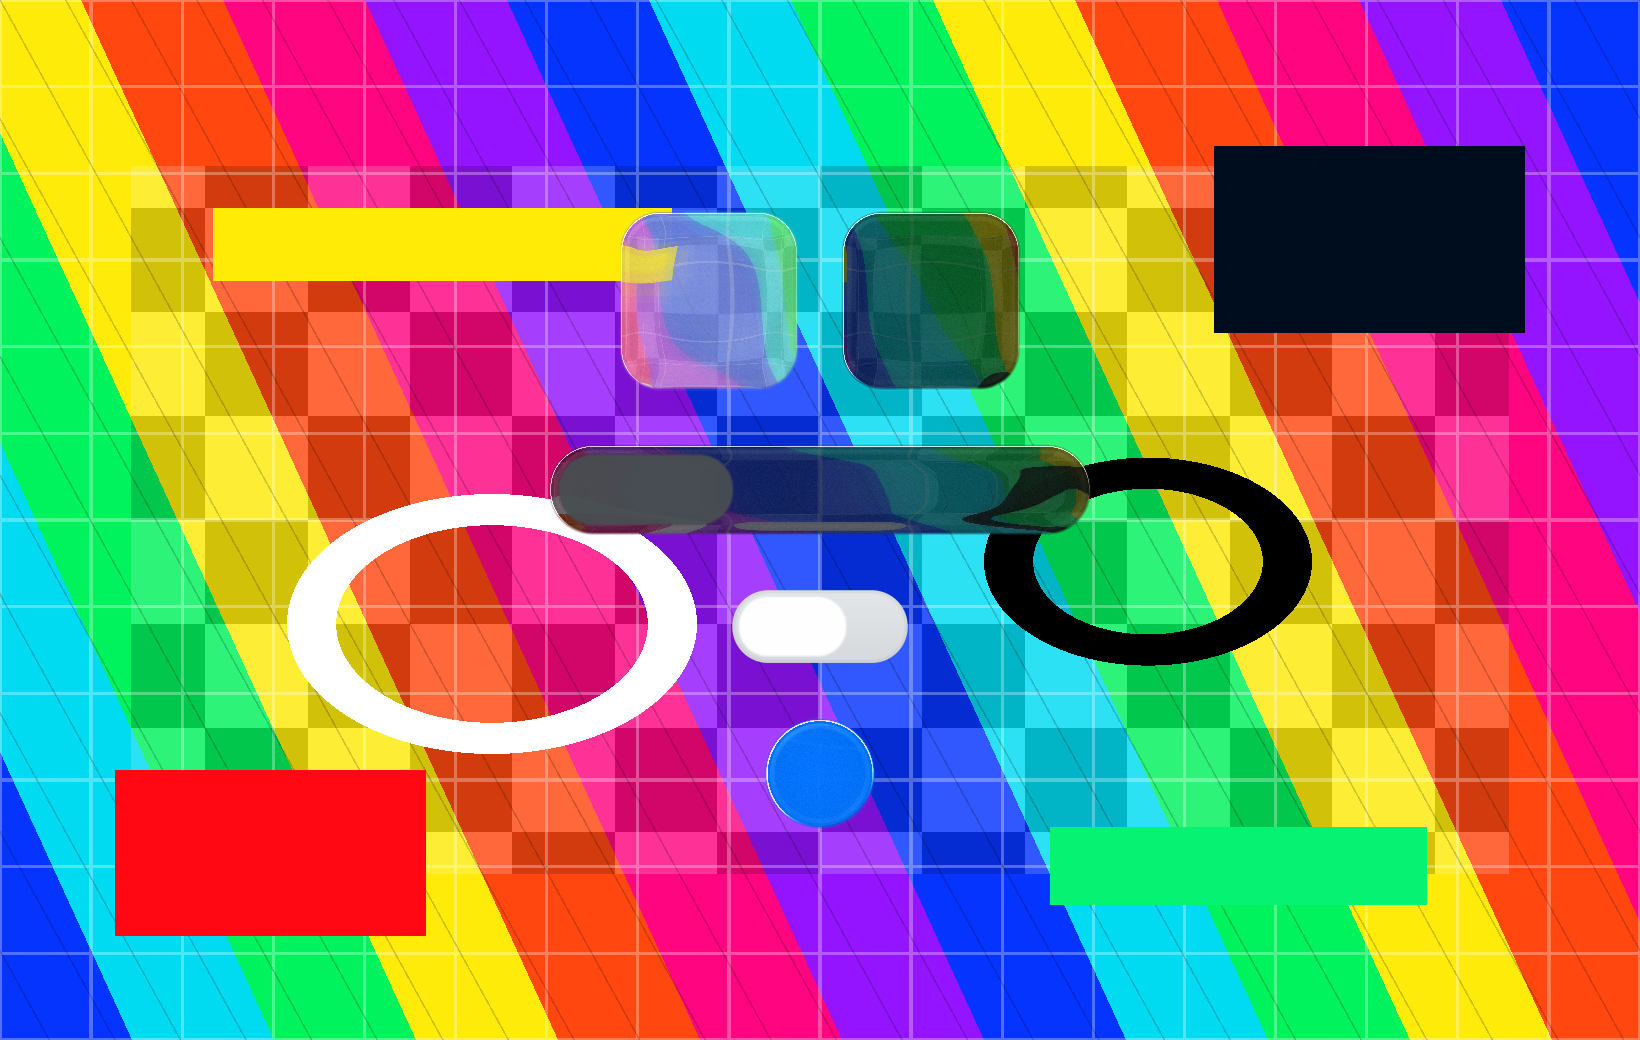
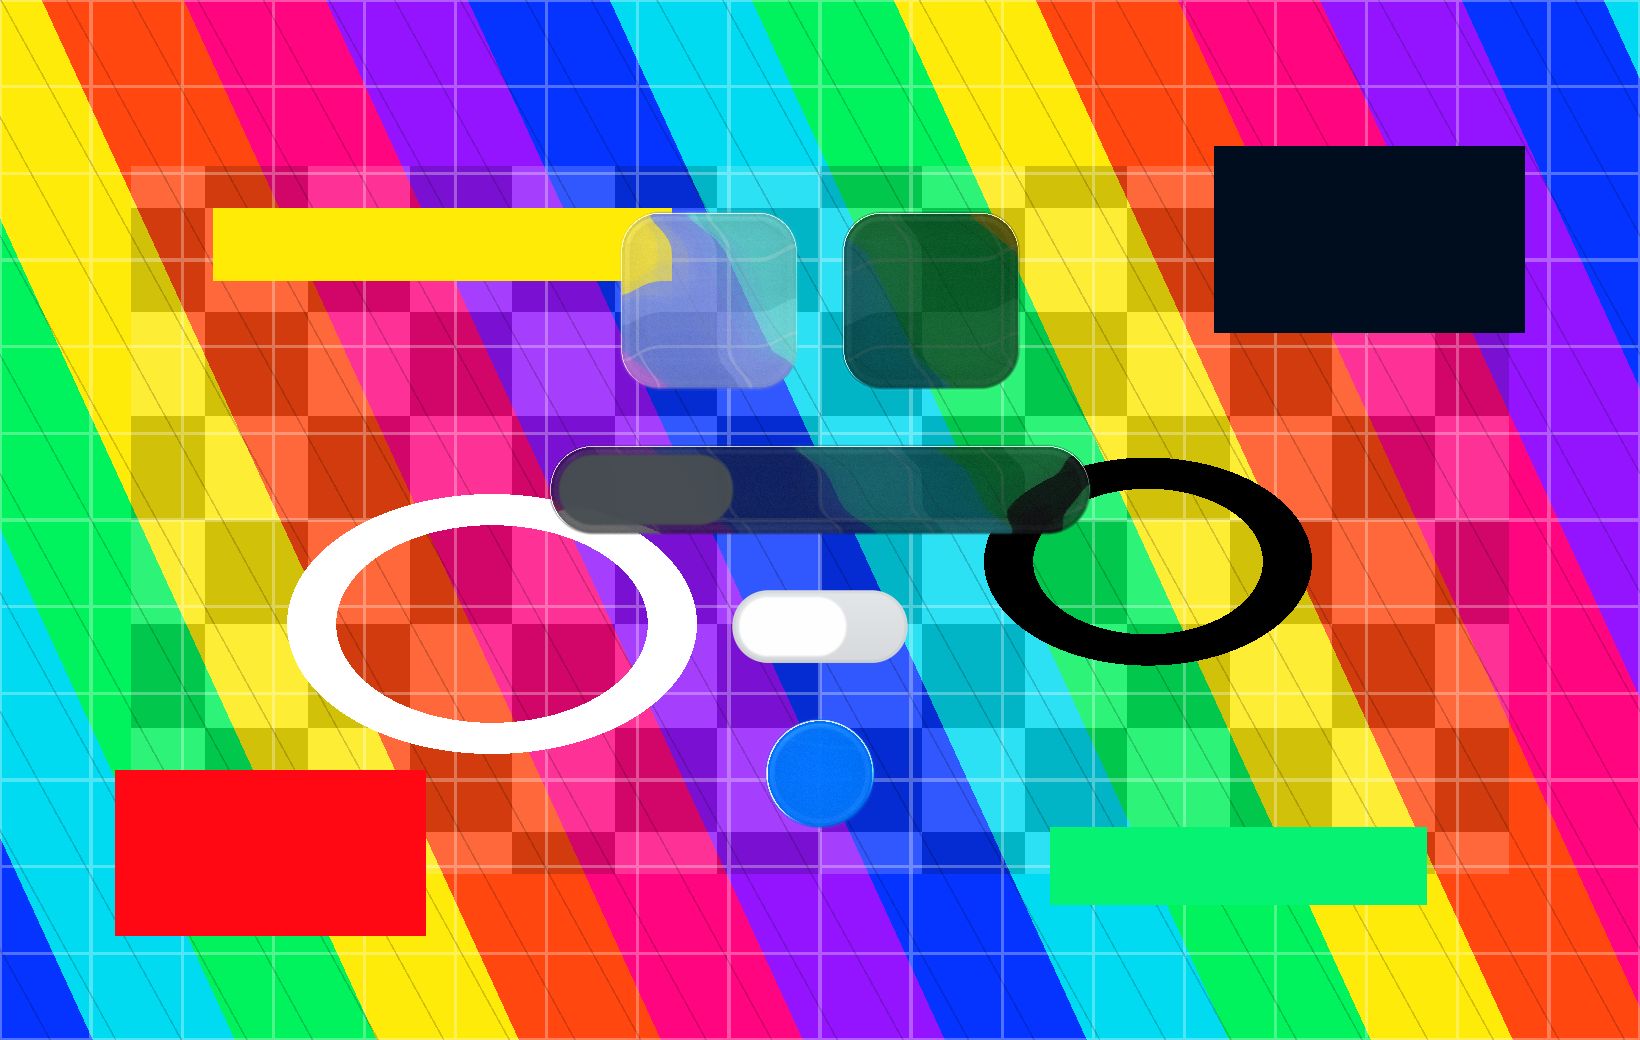
Use edge-flow widget refraction

diff --git a/src/melted_ui.c b/src/melted_ui.c
@@ -831,12 +831,13 @@ void melted_ui_draw_widget(const MeltedUIWidget *widget,
   widgetCfg.whiteLift = isDark ? widget->darkWhiteLift : widget->lightWhiteLift;
   widgetCfg.tintStrength = tintStrength;
   widgetCfg.edgeWidthPx = fmaxf(widgetCfg.edgeWidthPx, minEdge * 0.16f);
-  widgetCfg.refractionTransitionWidthPx = fmaxf(widgetCfg.refractionTransitionWidthPx, minEdge * 0.25f);
-  widgetCfg.refractionTransitionSoftnessPx = fmaxf(widgetCfg.refractionTransitionSoftnessPx, minEdge * 0.065f);
+  widgetCfg.refractionTransitionWidthPx = fmaxf(widgetCfg.refractionTransitionWidthPx, minEdge * 0.20f);
+  widgetCfg.refractionTransitionSoftnessPx = fmaxf(widgetCfg.refractionTransitionSoftnessPx, minEdge * 0.060f);
   widgetCfg.refractionStrength = fmaxf(widgetCfg.refractionStrength, 2.6f);
-  widgetCfg.opticalThicknessPx = fmaxf(widgetCfg.opticalThicknessPx, minEdge * 0.58f);
-  widgetCfg.lensCurvature = fmaxf(widgetCfg.lensCurvature, 0.38f);
-  widgetCfg.magnification = fmaxf(widgetCfg.magnification, 1.06f);
+  widgetCfg.centerStrengthUV = 0.0f;
+  widgetCfg.opticalThicknessPx = 0.0f;
+  widgetCfg.lensCurvature = 0.0f;
+  widgetCfg.magnification = 1.0f;
   widgetCfg.diffusionRadiusPx = fmaxf(widgetCfg.diffusionRadiusPx, minEdge * 0.11f);
   widgetCfg.buttonDiffusionRadiusPx = fmaxf(widgetCfg.buttonDiffusionRadiusPx, minEdge * 0.07f);
   widgetCfg.fresnelEnabled = 1;